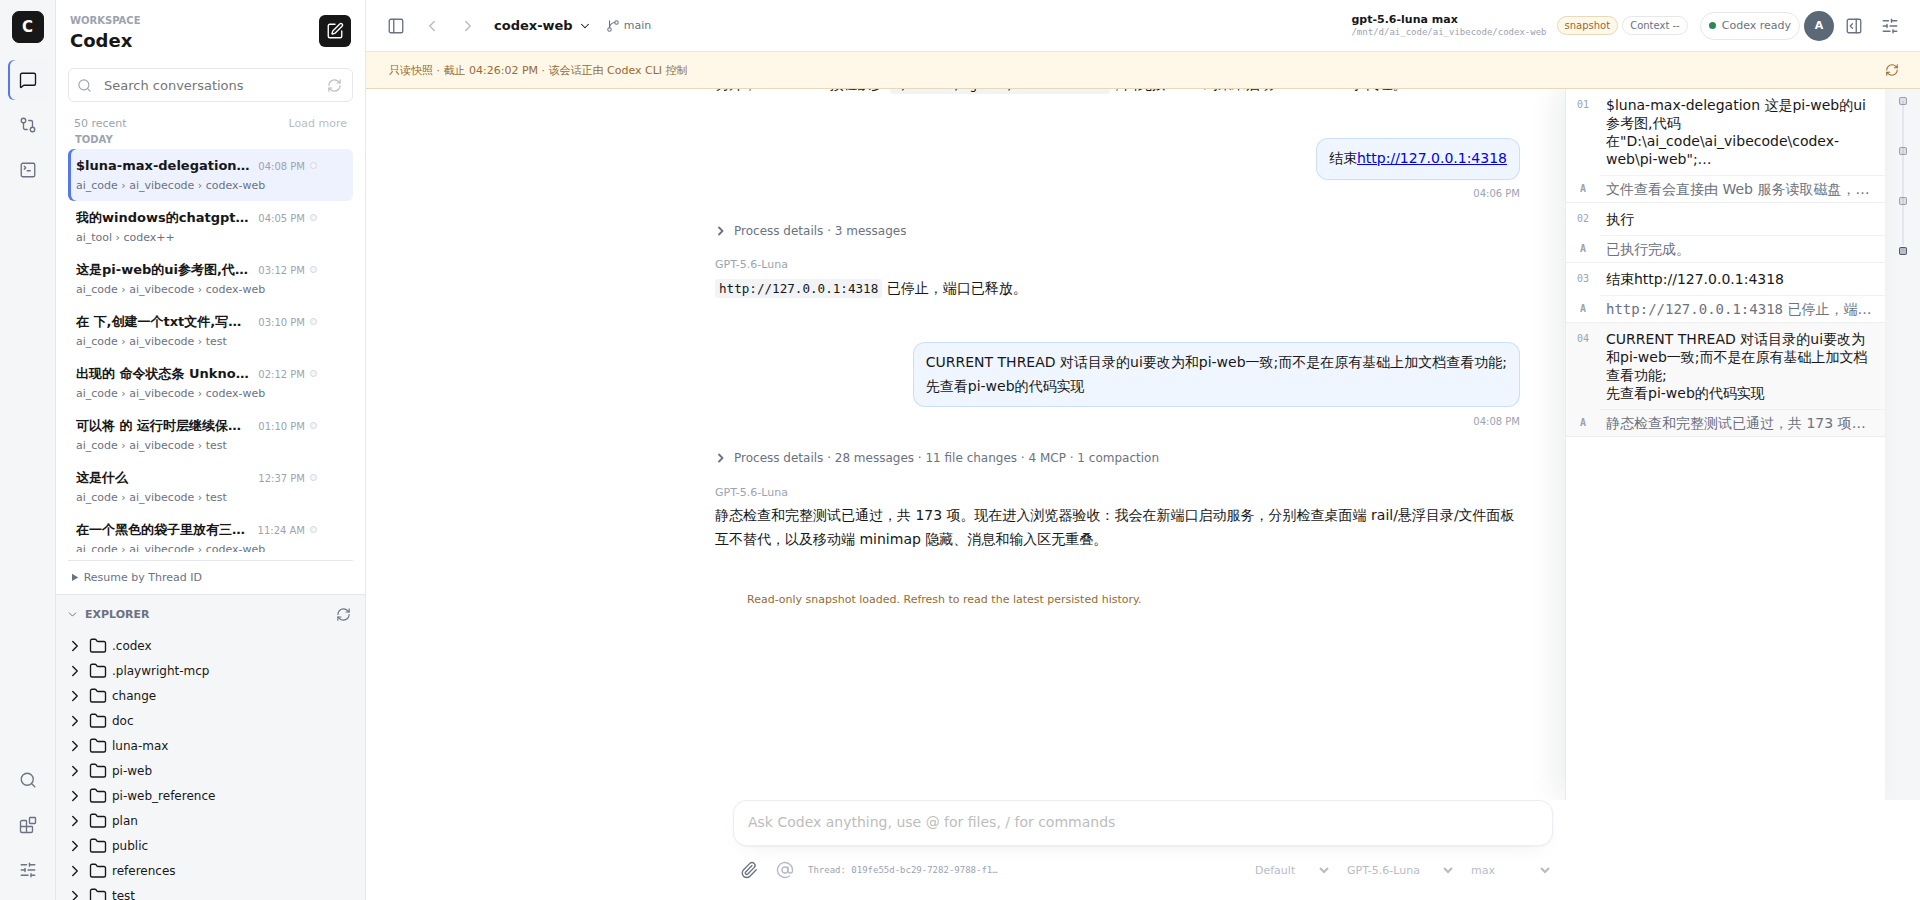
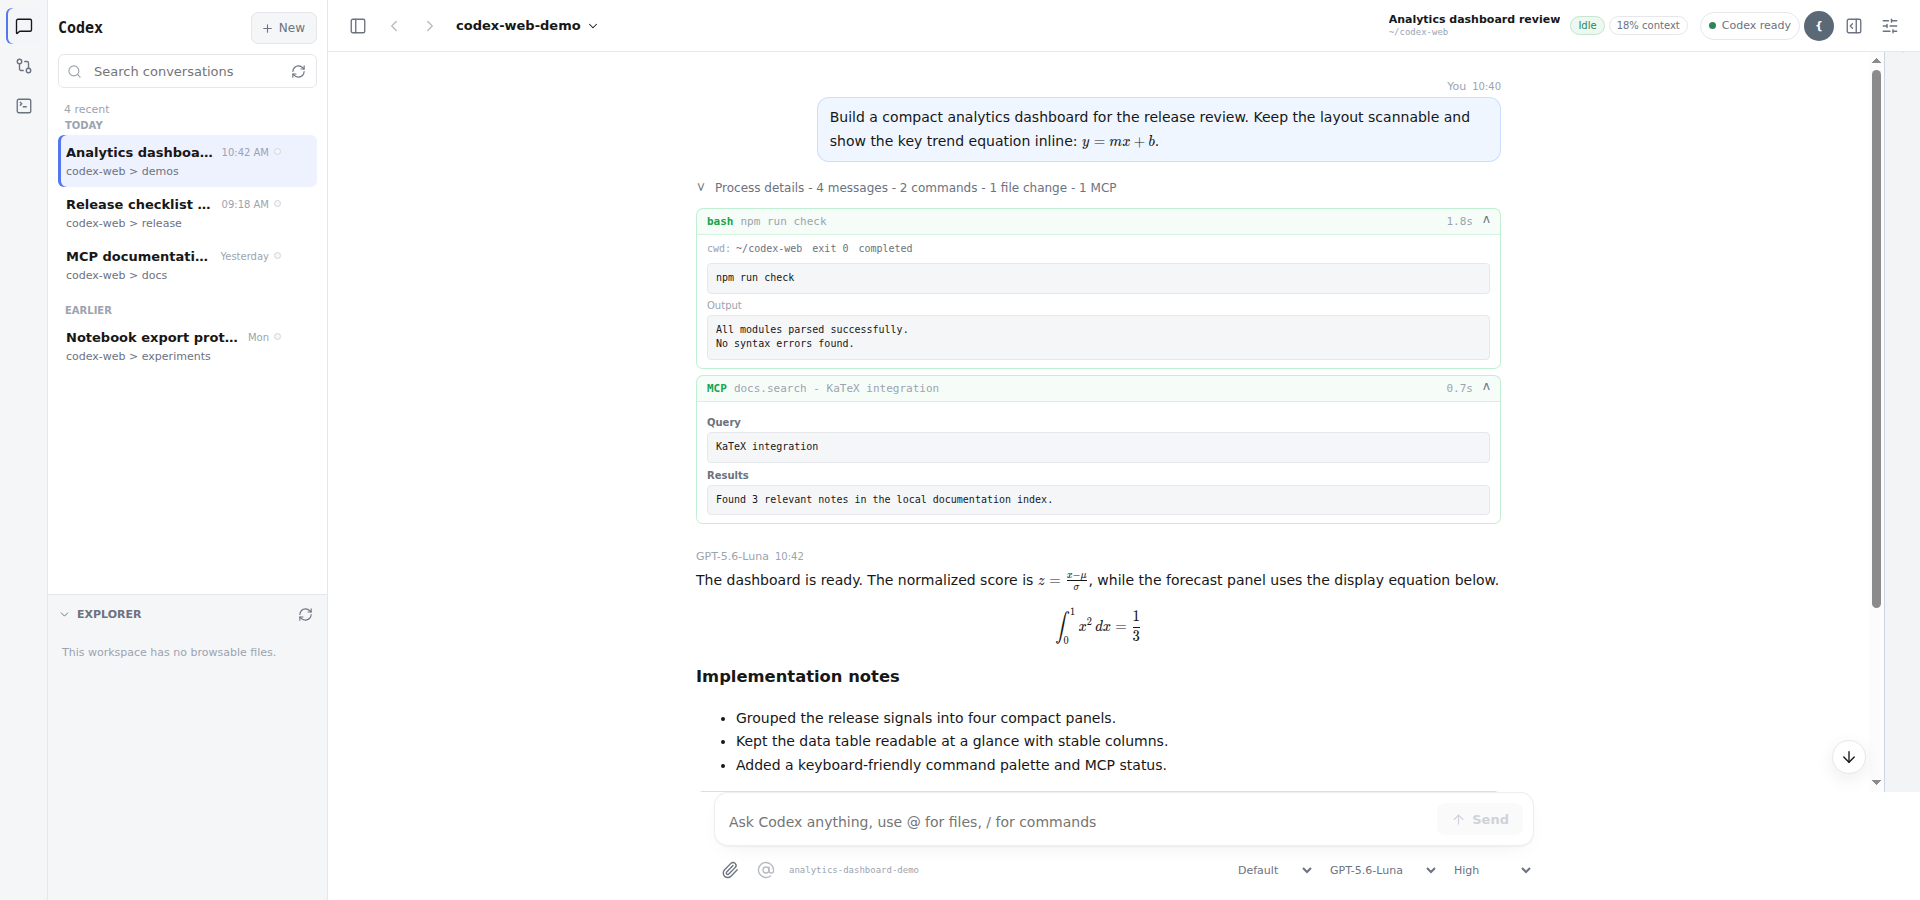
docs: replace UI preview with anonymized English demos

diff --git a/README.md b/README.md
@@ -7,6 +7,9 @@ actual CLI version at runtime.
 
 ## UI preview
 
+The previews below use synthetic English demo data. They contain no personal
+conversation text, paths, identifiers, or local session history.
+
 ### Conversation workspace
 
 The main workspace keeps the conversation, process details, tool output,
